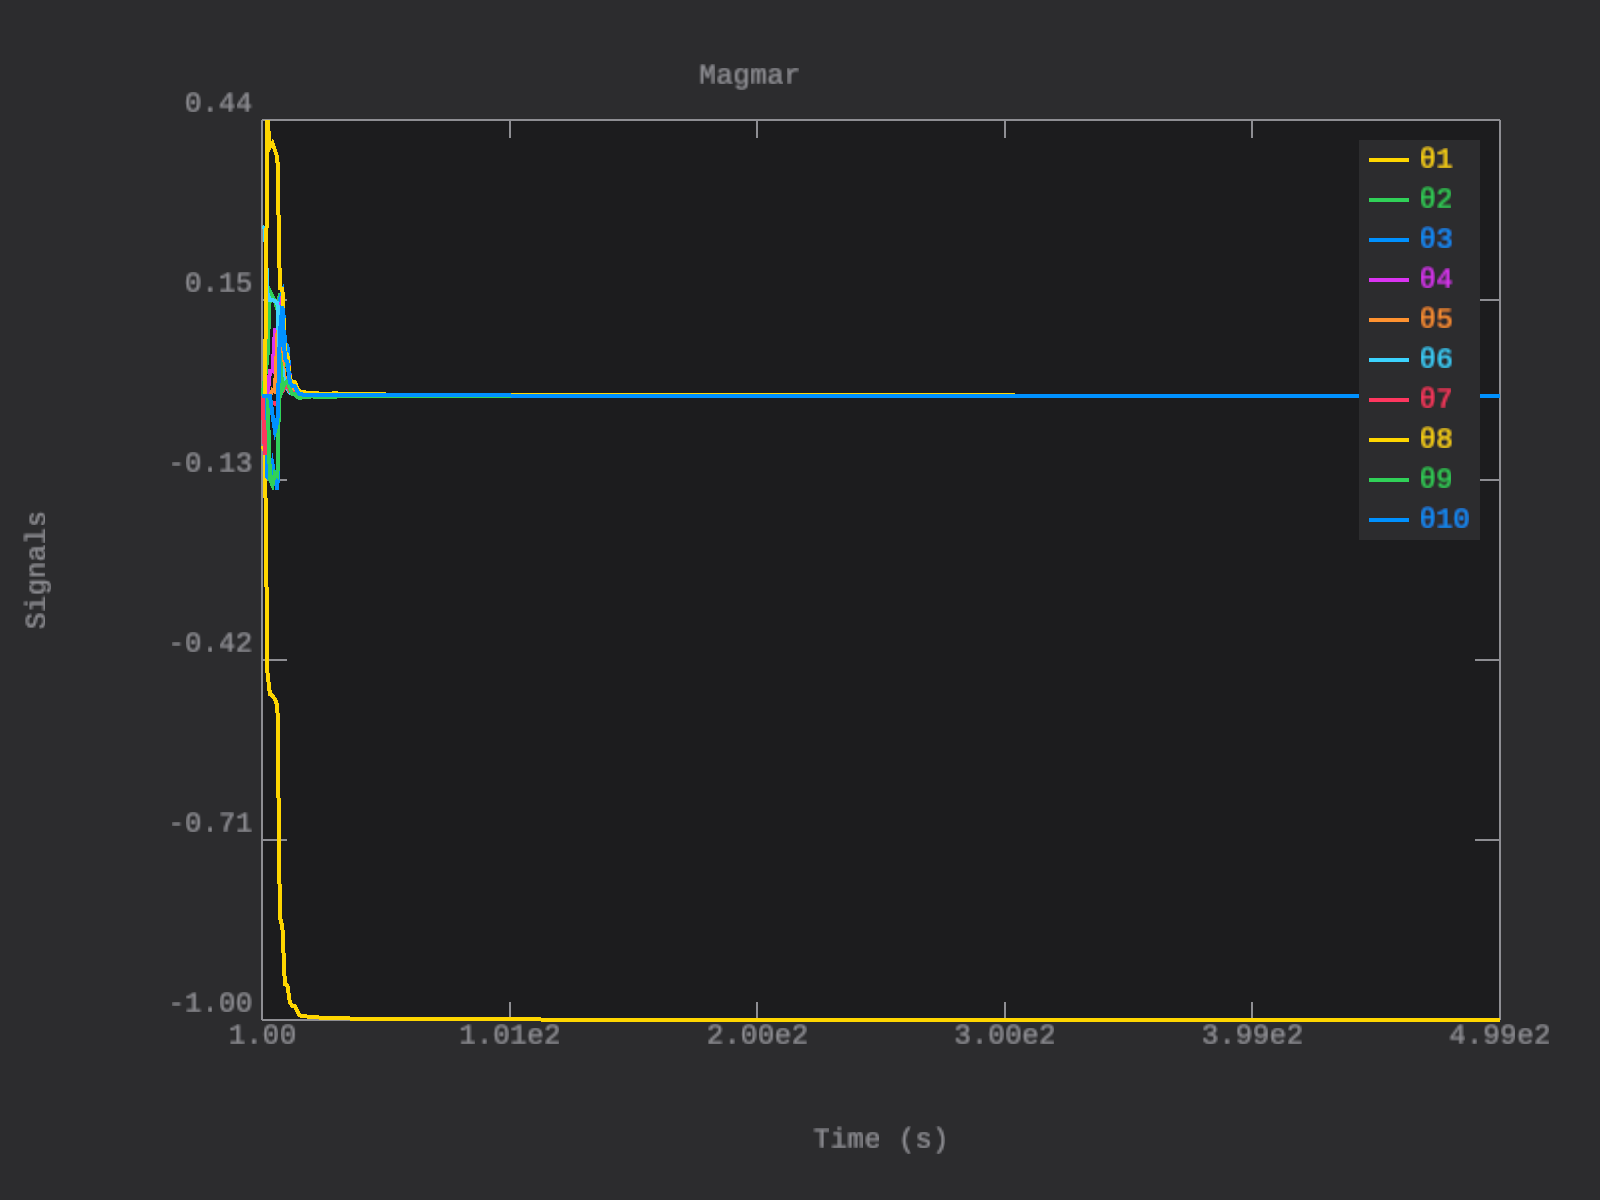
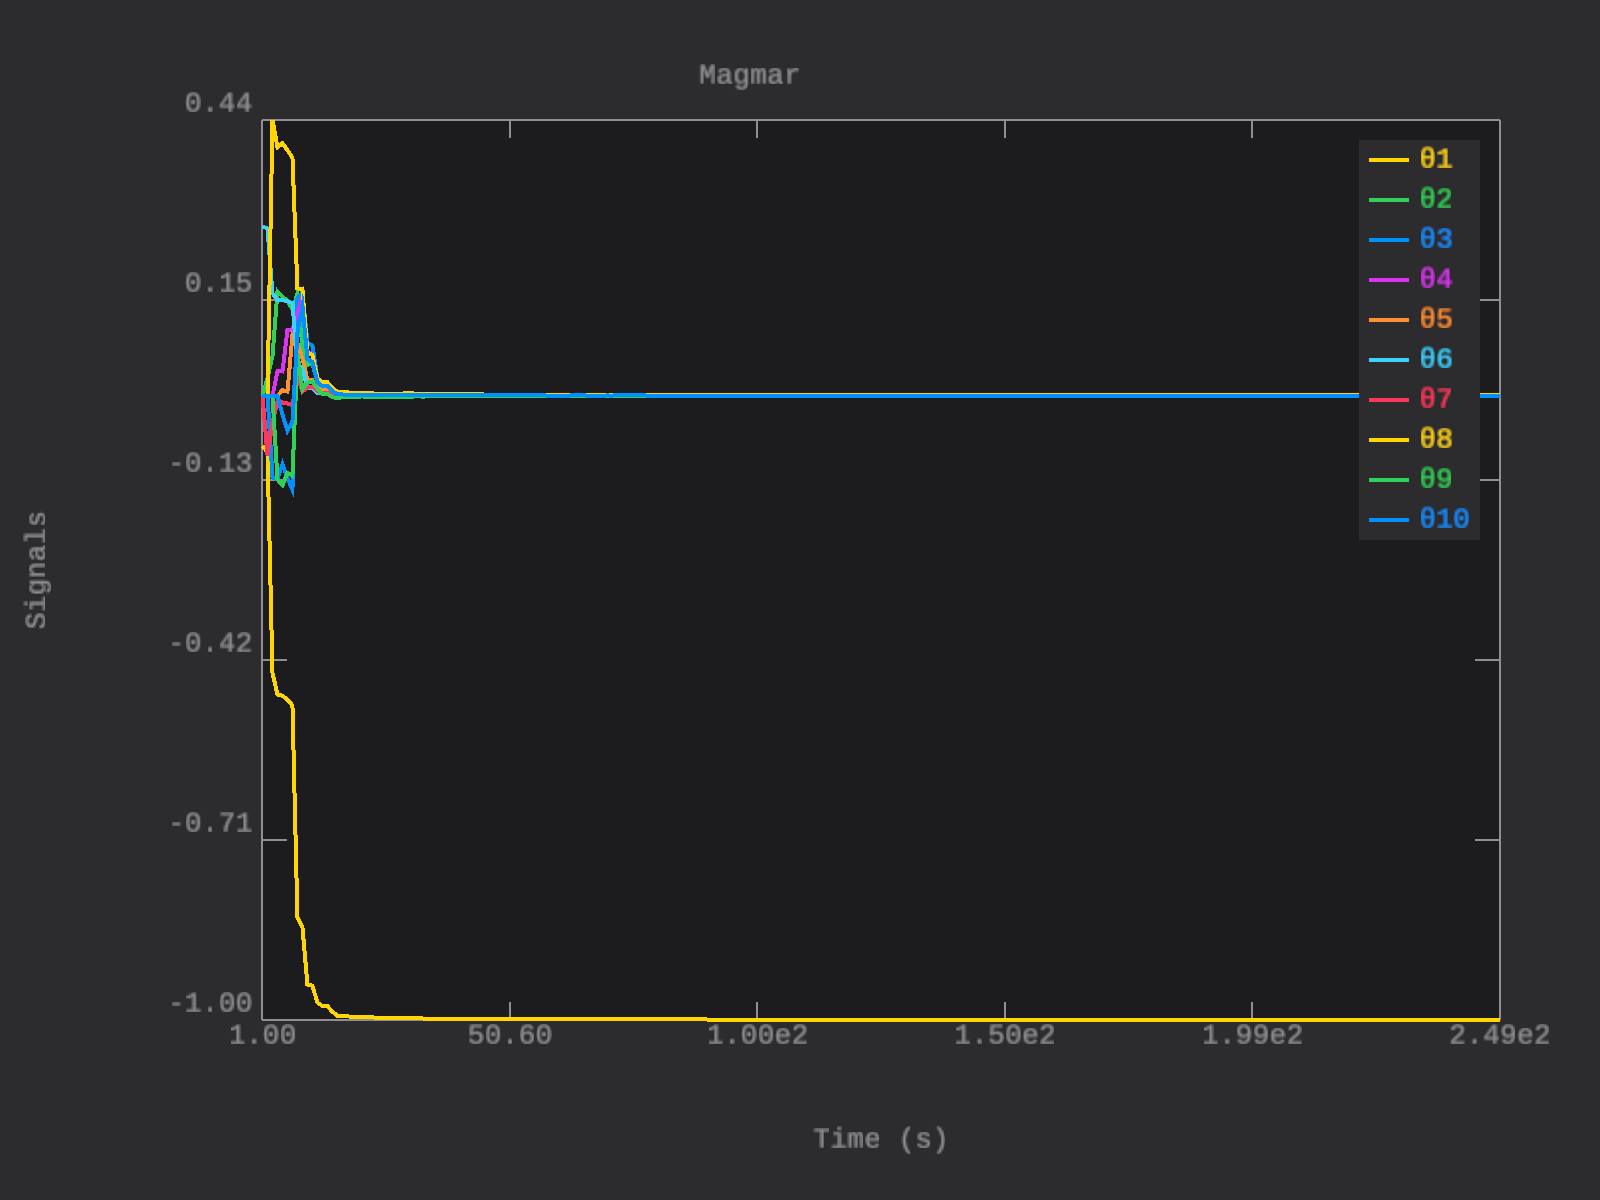
fix: fix question 5

diff --git a/src/questions/question5.rs b/src/questions/question5.rs
@@ -1,7 +1,8 @@
 use crate::{
     array_signal::ArraySignal,
     diff_eq::DifferenceEquation,
-    questions::{SSE, ordinal_str},
+    questions::{SSE, ordinal_str, print_table},
+    recursive_extended_least_squares::RecursiveExtendedLeastSquares,
     recursive_least_squares::RecursiveLeastSquares,
     zero_signal::ZeroSignal,
 };
@@ -9,11 +10,25 @@ use aule::prelude::*;
 
 pub fn question_5() {
     println!("### Question 5:");
-    eval_arx_sse("samples/dados_3.csv");
-    eval_arx_sse("samples/dados_4.csv");
+    let (sim_outputs3, arx_mse3) = eval_arx_mse("dados3", "samples/dados_3.csv");
+    let armax_mse3 = eval_armax_mse("dados3", "samples/dados_3.csv", sim_outputs3);
+    print_table("samples/dados_3.csv", &arx_mse3, &armax_mse3);
+    println!(
+        "Conclusão dados_3: Os parâmetros não convergem ao longo das 250 amostras - continuam se ajustando até o fim. Isso indica um sistema VARIANTE NO TEMPO.\n"
+    );
+
+    let (sim_outputs4, arx_mse4) = eval_arx_mse("dados4", "samples/dados_4.csv");
+    let armax_mse4 = eval_armax_mse("dados4", "samples/dados_4.csv", sim_outputs4);
+    print_table("samples/dados_4.csv", &arx_mse4, &armax_mse4);
+    println!(
+        "Conclusão dados_4: Os parâmetros convergem após ~50 amostras e permanecem estáveis. Isso indica um sistema INVARIANTE NO TEMPO.\n"
+    );
 }
 
-fn eval_arx_sse(filename: impl AsRef<str>) {
+fn eval_arx_mse(
+    dataset_name: impl AsRef<str>,
+    filename: impl AsRef<str>,
+) -> (Vec<(Vec<f64>, Vec<f64>)>, Vec<f64>) {
     println!("Evaluating ARX SSE for file: {}", filename.as_ref());
 
     let mut data1_output = FileSamples::from_csv(filename.as_ref(), 0, 1).unwrap();
@@ -34,36 +49,61 @@ fn eval_arx_sse(filename: impl AsRef<str>) {
         inputs.push(input.value);
     }
 
-    let total = outputs.len().min(inputs.len());
+    let n = outputs.len().min(inputs.len());
+    let pivot = n / 2;
+    let estimation = (&outputs[..pivot], &inputs[..pivot]);
+    let validation = (&outputs[pivot..], &inputs[pivot..]);
+    let total = validation.0.len();
+
     let systems = (1..=5)
-        .map(|order| identify_arx_rls(&outputs, &inputs, order))
+        .map(|order| identify_arx_rls(estimation.0, estimation.1, order, &dataset_name))
         .collect::<Vec<_>>();
 
-    let sse_values = systems
-        .into_iter()
-        .enumerate()
-        .map(|(order, sys)| {
-            let sim_res = sys.simulate(total, ArraySignal::new(&inputs), ZeroSignal);
-            let sse = SSE::eval(&outputs[..total], &sim_res.outputs);
-            println!("{} Order system SSE: {}", ordinal_str(order + 1), sse);
-            sse
+    let sim_outputs = systems
+        .iter()
+        .map(|sys| {
+            let sim_res_est =
+                sys.clone()
+                    .simulate(total, ArraySignal::new(estimation.1), ZeroSignal);
+            let sim_res_val =
+                sys.clone()
+                    .simulate(total, ArraySignal::new(validation.1), ZeroSignal);
+            (sim_res_est.outputs, sim_res_val.outputs)
         })
         .collect::<Vec<_>>();
 
-    let best_order = sse_values
+    let mse_values = systems
+        .into_iter()
+        .enumerate()
+        .map(|(order, sys)| {
+            let sim_res = sys.simulate(total, ArraySignal::new(validation.1), ZeroSignal);
+            let mse = SSE::eval(validation.0, &sim_res.outputs) / total as f64;
+            println!("{} Order system MSE: {}", ordinal_str(order + 1), mse);
+            mse
+        })
+        .collect::<Vec<_>>();
+
+    let best_order = mse_values
         .iter()
         .enumerate()
         .min_by(|a, b| a.1.partial_cmp(b.1).unwrap())
         .map(|(order, _)| order + 1)
         .unwrap();
     println!(
-        "Best order: {} (SSE: {})",
+        "Best order: {} (MSE: {})",
         best_order,
-        sse_values[best_order - 1]
+        mse_values[best_order - 1]
     );
+
+    (sim_outputs, mse_values)
 }
 
-fn identify_arx_rls(outputs: &[f64], inputs: &[f64], order: usize) -> DifferenceEquation {
+fn identify_arx_rls(
+    outputs: &[f64],
+    inputs: &[f64],
+    order: usize,
+    dataset_name: impl AsRef<str>,
+) -> DifferenceEquation {
     let total = outputs.len().min(inputs.len());
     let time = Time::new(1.0, total as f32);
     let mut rls = RecursiveLeastSquares::new(1000.0, order);
@@ -87,11 +127,152 @@ fn identify_arx_rls(outputs: &[f64], inputs: &[f64], order: usize) -> Difference
     }
 
     plotter.display();
-    let _ = plotter.save(&format!("images/RLS_ARX_{}.png", order));
+    let _ = plotter.save(&format!(
+        "images/RLS_ARX_{}_{}.png",
+        dataset_name.as_ref(),
+        order
+    ));
 
     let a = theta[..order].to_vec();
     let b = theta[order..].to_vec();
     let c = vec![0.0; order];
+
+    DifferenceEquation::new(&a, &b, &c)
+}
+
+fn eval_armax_mse(
+    dataset_name: impl AsRef<str>,
+    filename: impl AsRef<str>,
+    sim_outputs: Vec<(Vec<f64>, Vec<f64>)>,
+) -> Vec<f64> {
+    println!("Evaluating ARX SSE for file: {}", filename.as_ref());
+
+    let mut data1_output = FileSamples::from_csv(filename.as_ref(), 0, 1).unwrap();
+    let mut data1_input = FileSamples::from_csv(filename.as_ref(), 0, 2).unwrap();
+
+    let mut outputs = vec![];
+    let mut inputs = vec![];
+
+    for dt in EndlessTime::new(1.0) {
+        let Some(output) = (dt * data1_output.as_block()).unpack() else {
+            break;
+        };
+        outputs.push(output.value);
+
+        let Some(input) = (dt * data1_input.as_block()).unpack() else {
+            break;
+        };
+        inputs.push(input.value);
+    }
+
+    let n = outputs.len().min(inputs.len());
+    let pivot = n / 2;
+    let estimation = (&outputs[..pivot], &inputs[..pivot]);
+    let validation = (&outputs[pivot..], &inputs[pivot..]);
+    let total = validation.0.len();
+
+    let noises = sim_outputs
+        .into_iter()
+        .map(|sim_outputs| {
+            (
+                sim_outputs
+                    .0
+                    .iter()
+                    .zip(estimation.0)
+                    .map(|(so, o)| o - so)
+                    .collect::<Vec<_>>(),
+                sim_outputs
+                    .1
+                    .iter()
+                    .zip(validation.0)
+                    .map(|(so, o)| o - so)
+                    .collect::<Vec<_>>(),
+            )
+        })
+        .collect::<Vec<_>>();
+
+    let systems = (1..=5)
+        .map(|order| {
+            identify_armax_rels(
+                estimation.0,
+                estimation.1,
+                &noises[order - 1].0,
+                order,
+                &dataset_name,
+            )
+        })
+        .collect::<Vec<_>>();
+
+    let mse_values = systems
+        .into_iter()
+        .enumerate()
+        .map(|(order, sys)| {
+            let sim_res = sys.simulate(
+                total,
+                ArraySignal::new(validation.1),
+                ArraySignal::new(&noises[order].1),
+            );
+            let mse = SSE::eval(validation.0, &sim_res.outputs) / total as f64;
+            println!("{} Order system MSE: {}", ordinal_str(order + 1), mse);
+            mse
+        })
+        .collect::<Vec<_>>();
+
+    let best_order = mse_values
+        .iter()
+        .enumerate()
+        .min_by(|a, b| a.1.partial_cmp(b.1).unwrap())
+        .map(|(order, _)| order + 1)
+        .unwrap();
+    println!(
+        "Best order: {} (MSE: {})",
+        best_order,
+        mse_values[best_order - 1]
+    );
+
+    mse_values
+}
+
+fn identify_armax_rels(
+    outputs: &[f64],
+    inputs: &[f64],
+    noises: &[f64],
+    order: usize,
+    dataset_name: impl AsRef<str>,
+) -> DifferenceEquation {
+    let total = outputs.len().min(inputs.len());
+    let time = Time::new(1.0, total as f32);
+    let mut rels = RecursiveExtendedLeastSquares::new(1000.0, order);
+    let mut theta = vec![0.0; 3 * order];
+    let mut plotter = PlotterDynamic::new(
+        format!("RELS ARMAX on {} order system", ordinal_str(order)),
+        (0..3 * order)
+            .map(|i| format!("θ{}", i + 1))
+            .collect::<Vec<_>>(),
+    );
+
+    for (i, dt) in time.enumerate() {
+        let output = outputs[i];
+        let input = inputs[i];
+        let noise = noises[i];
+
+        let rels_input = dt.map(|_| (output, input, noise)).pack();
+        let new_theta = rels_input * rels.as_block();
+        theta = new_theta.value.clone();
+
+        let _ = new_theta * plotter.as_block();
+    }
+
+    plotter.display();
+    let _ = plotter.save(&format!(
+        "images/RELS_ARMAX_{}_{}.png",
+        dataset_name.as_ref(),
+        order
+    ));
+
+    let a = theta[..order].to_vec();
+    let b = theta[order..2 * order].to_vec();
+    let c = theta[2 * order..].to_vec();
 
     DifferenceEquation::new(&a, &b, &c)
 }

diff --git a/src/questions/question4.rs b/src/questions/question4.rs
@@ -1,7 +1,7 @@
 use crate::{
     array_signal::ArraySignal,
     ordinary_least_squares::OrdinaryLeastSquares,
-    questions::{SSE, ordinal_str},
+    questions::{SSE, ordinal_str, print_table},
     zero_signal::ZeroSignal,
 };
 use aule::prelude::*;
@@ -44,22 +44,6 @@ fn print_justification(arx_mse: &[f64], armax_mse: &[f64]) {
         "Apresenta o menor MSE entre os modelos testados ({})\n",
         best_mse
     );
-}
-
-fn print_table(title: impl AsRef<str>, arx_mse: &[f64], armax_mse: &[f64]) {
-    println!("{} table:", title.as_ref());
-    println!("| {:<10}| {:<10}| {:<10}|", "Ordem", "ARX MSE", "ARMAX MSE");
-    println!(
-        "|-{:<10}|-{:<10}|-{:<10}|",
-        "-".repeat(10),
-        "-".repeat(10),
-        "-".repeat(10)
-    );
-    for (order, (arx, armax)) in arx_mse.iter().zip(armax_mse).enumerate() {
-        let order = order + 1;
-
-        println!("| {:<10}| {:<10.5}| {:<10.5}|", order, arx, armax);
-    }
 }
 
 fn eval_arx_mse(filename: impl AsRef<str>) -> (Vec<(Vec<f64>, Vec<f64>)>, Vec<f64>) {

diff --git a/src/recursive_extended_least_squares.rs b/src/recursive_extended_least_squares.rs
@@ -45,7 +45,6 @@ impl Block for RecursiveExtendedLeastSquares {
 
     fn output(&mut self, mut input: Signal<Self::Input>) -> Signal<Self::Output> {
         input.value.noise = input.value.output - self.phi.t().dot(&self.last_theta)[[0, 0]];
-        self.update_phi(&input.value);
 
         let kalman_gain_num = self.last_p.dot(&self.phi);
         let kalman_gain_den = 1.0 + self.phi.t().dot(&self.last_p).dot(&self.phi);
@@ -56,6 +55,8 @@ impl Block for RecursiveExtendedLeastSquares {
             self.last_theta.clone() + kalman_gain.dot(&(y_k - self.phi.t().dot(&self.last_theta)));
         self.last_p =
             (Array2::eye(3 * self.order()) - kalman_gain.dot(&self.phi.t())).dot(&self.last_p);
+
+        self.update_phi(&input.value);
 
         input.map(|_| self.last_theta.clone().into_raw_vec())
     }

diff --git a/src/recursive_least_squares.rs b/src/recursive_least_squares.rs
@@ -42,8 +42,6 @@ impl Block for RecursiveLeastSquares {
     type Output = Vec<f64>;
 
     fn output(&mut self, input: Signal<Self::Input>) -> Signal<Self::Output> {
-        self.update_phi(&input.value);
-
         let kalman_gain_num = self.last_p.dot(&self.phi);
         let kalman_gain_den = 1.0 + self.phi.t().dot(&self.last_p).dot(&self.phi);
         let kalman_gain = kalman_gain_num / kalman_gain_den;
@@ -53,6 +51,8 @@ impl Block for RecursiveLeastSquares {
             self.last_theta.clone() + kalman_gain.dot(&(y_k - self.phi.t().dot(&self.last_theta)));
         self.last_p =
             (Array2::eye(2 * self.order()) - kalman_gain.dot(&self.phi.t())).dot(&self.last_p);
+
+        self.update_phi(&input.value);
 
         input.map(|_| self.last_theta.clone().into_raw_vec())
     }

diff --git a/src/questions/mod.rs b/src/questions/mod.rs
@@ -18,6 +18,22 @@ pub fn ordinal_str(value: usize) -> String {
     )
 }
 
+pub fn print_table(title: impl AsRef<str>, arx_mse: &[f64], armax_mse: &[f64]) {
+    println!("{} table:", title.as_ref());
+    println!("| {:<10}| {:<10}| {:<10}|", "Ordem", "ARX MSE", "ARMAX MSE");
+    println!(
+        "|-{:<10}|-{:<10}|-{:<10}|",
+        "-".repeat(10),
+        "-".repeat(10),
+        "-".repeat(10)
+    );
+    for (order, (arx, armax)) in arx_mse.iter().zip(armax_mse).enumerate() {
+        let order = order + 1;
+
+        println!("| {:<10}| {:<10.5}| {:<10.5}|", order, arx, armax);
+    }
+}
+
 pub struct SSE;
 
 impl SSE {
